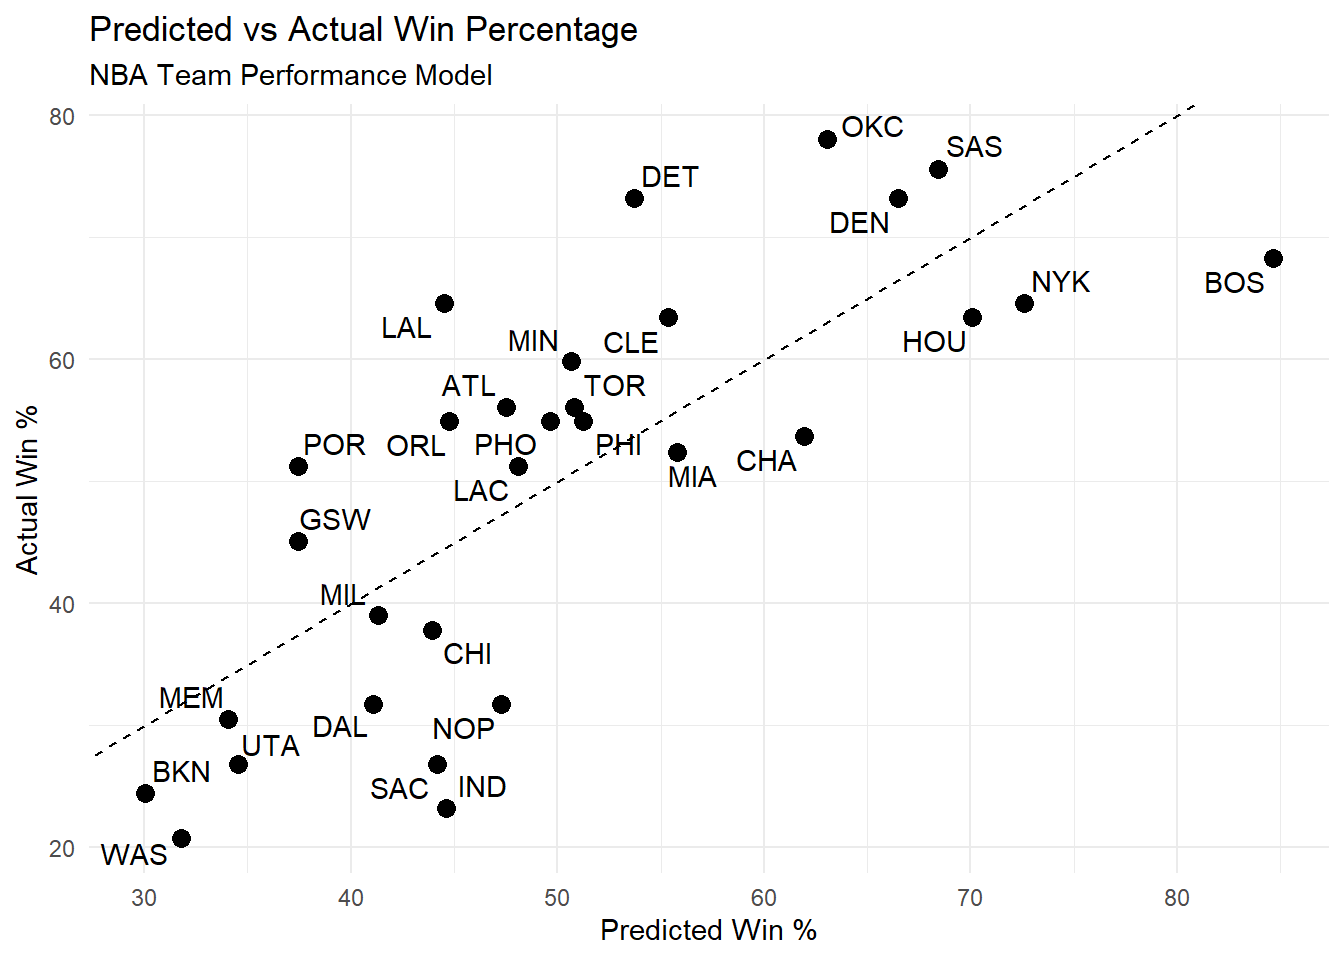
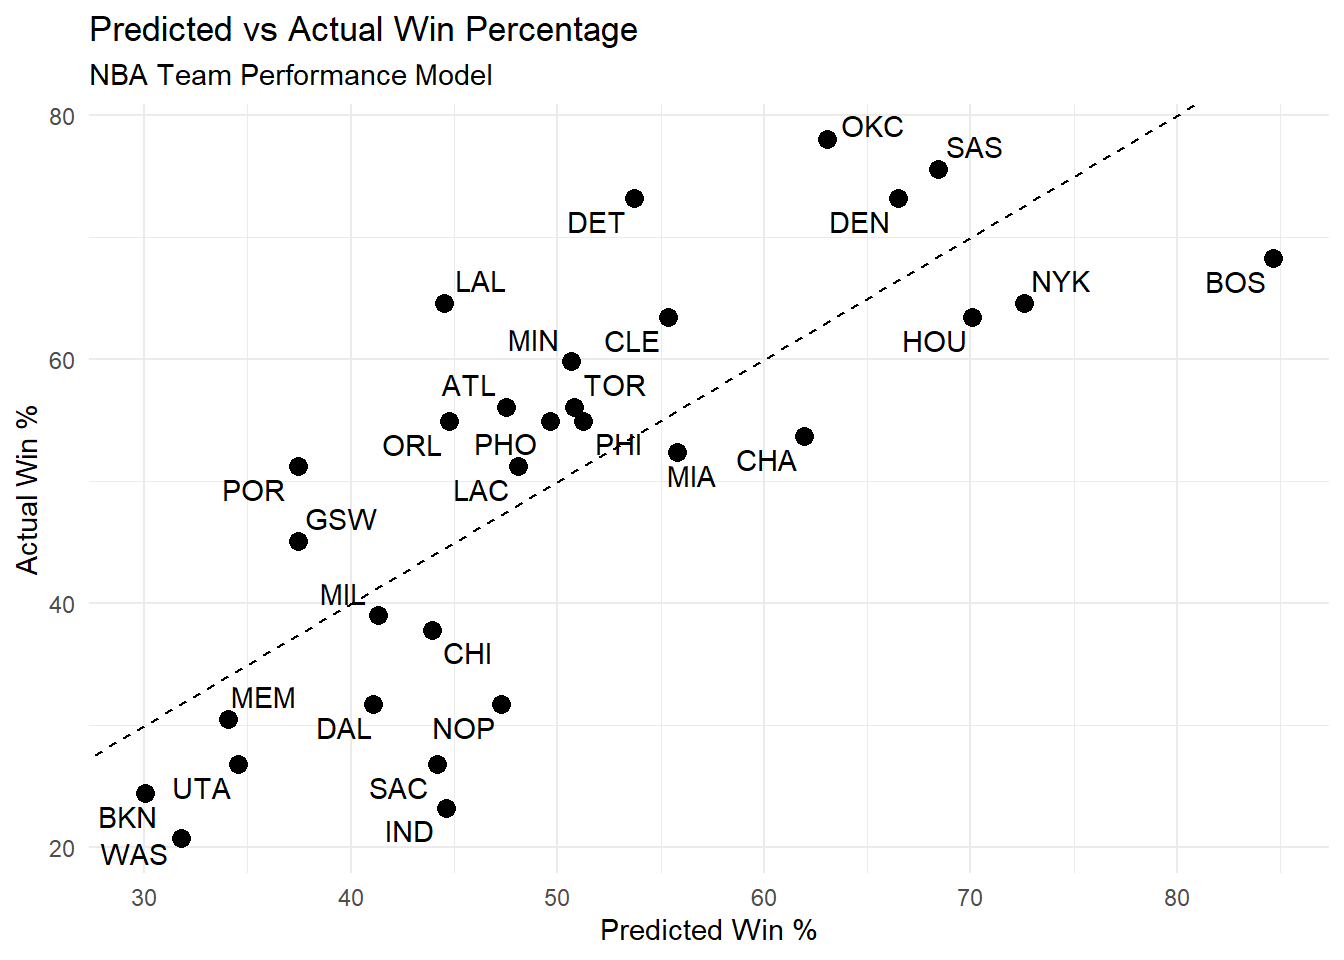
update homepage

diff --git a/docs/index.html b/docs/index.html
@@ -7,7 +7,7 @@
 <meta name="viewport" content="width=device-width, initial-scale=1.0, user-scalable=yes">
 
 
-<title>College Basketball Report</title>
+<title>Classroom to Court</title>
 <style>
 code{white-space: pre-wrap;}
 span.smallcaps{font-variant: small-caps;}
@@ -82,7 +82,7 @@ ul.task-list li input[type="checkbox"] {
       <div class="navbar-container container-fluid">
       <div class="navbar-brand-container mx-auto">
     <a class="navbar-brand" href="./index.html">
-    <span class="navbar-title">College Basketball Report</span>
+    <span class="navbar-title">Classroom to Court</span>
     </a>
   </div>
             <div id="quarto-search" class="" title="Search"></div>
@@ -99,14 +99,21 @@ ul.task-list li input[type="checkbox"] {
     <a class="nav-link" href="./about.html"> 
 <span class="menu-text">About</span></a>
   </li>  
-  <li class="nav-item">
-    <a class="nav-link" href="./nbastatsandwinpct.html"> 
-<span class="menu-text">NBA Stats &amp; Win %</span></a>
+  <li class="nav-item dropdown ">
+    <a class="nav-link dropdown-toggle" href="#" id="nav-menu-content" role="link" data-bs-toggle="dropdown" aria-expanded="false">
+ <span class="menu-text">Content</span>
+    </a>
+    <ul class="dropdown-menu" aria-labelledby="nav-menu-content">    
+        <li>
+    <a class="dropdown-item" href="./duke-blue-devils.html">
+ <span class="dropdown-text">NCAA — Duke Blue Devils</span></a>
   </li>  
-  <li class="nav-item">
-    <a class="nav-link" href="./duke-blue-devils.html"> 
-<span class="menu-text">Duke Blue Devils</span></a>
+        <li>
+    <a class="dropdown-item" href="./nbastatsandwinpct.html">
+ <span class="dropdown-text">NBA — Stats &amp; Win %</span></a>
   </li>  
+    </ul>
+  </li>
 </ul>
           </div> <!-- /navcollapse -->
             <div class="quarto-navbar-tools">
@@ -123,8 +130,10 @@ ul.task-list li input[type="checkbox"] {
     <h2 id="toc-title">On this page</h2>
    
   <ul>
-  <li><a href="#what-youll-find-here" id="toc-what-youll-find-here" class="nav-link active" data-scroll-target="#what-youll-find-here">What You’ll Find Here</a></li>
-  <li><a href="#about-this-project" id="toc-about-this-project" class="nav-link" data-scroll-target="#about-this-project">About This Project</a></li>
+  <li><a href="#welcome" id="toc-welcome" class="nav-link active" data-scroll-target="#welcome">Welcome</a></li>
+  <li><a href="#explore-the-content" id="toc-explore-the-content" class="nav-link" data-scroll-target="#explore-the-content">Explore the Content</a></li>
+  <li><a href="#connect" id="toc-connect" class="nav-link" data-scroll-target="#connect">Connect</a></li>
+  <li><a href="#latest-basketball-news" id="toc-latest-basketball-news" class="nav-link" data-scroll-target="#latest-basketball-news">Latest Basketball News</a></li>
   </ul>
 </nav>
     </div>
@@ -133,8 +142,8 @@ ul.task-list li input[type="checkbox"] {
 
 <header id="title-block-header" class="quarto-title-block default">
 <div class="quarto-title">
-<h1 class="title">College Basketball Report</h1>
-<p class="subtitle lead">Data-driven analysis of NCAA and NBA basketball</p>
+<h1 class="title">Classroom to Court</h1>
+<p class="subtitle lead">Where basketball knowledge meets data-driven insight</p>
 </div>
 
 
@@ -151,38 +160,83 @@ ul.task-list li input[type="checkbox"] {
 </header>
 
 
-<p>Welcome to the <strong>College Basketball Report</strong> — a stats-first blog covering NCAA and NBA basketball through the lens of data. Every post digs into the numbers behind the game: shooting trends, team efficiency, player breakdowns, and season-long narratives told through visualizations.</p>
-<section id="what-youll-find-here" class="level2">
-<h2 class="anchored" data-anchor-id="what-youll-find-here">What You’ll Find Here</h2>
-<table class="caption-top table">
-<colgroup>
-<col style="width: 50%">
-<col style="width: 50%">
-</colgroup>
-<thead>
-<tr class="header">
-<th>Section</th>
-<th>Description</th>
-</tr>
-</thead>
-<tbody>
-<tr class="odd">
-<td><strong>Duke Blue Devils</strong></td>
-<td>2025–26 season breakdown — shooting, scoring, and ball movement</td>
-</tr>
-<tr class="even">
-<td><strong>NBA Stats &amp; Win %</strong></td>
-<td>How team statistics translate to wins in the NBA</td>
-</tr>
-</tbody>
-</table>
+<section id="welcome" class="level2">
+<h2 class="anchored" data-anchor-id="welcome">Welcome</h2>
+<p>Basketball has always been more than a game — it’s a laboratory of strategy, athleticism, and storytelling. <strong>Classroom to Court</strong> bridges the gap between the academic study of sport and the hardwood itself, turning raw statistics into narratives that every fan can appreciate.</p>
+<p>Whether you follow the high-stakes drama of March Madness or track every NBA standings shift across an 82-game season, this site gives you something most coverage doesn’t: the numbers behind the moments. Every chart, every breakdown, and every post here is built from real game-by-game data — no filler, no recycled takes, just basketball and the statistics that explain it.</p>
+<hr>
 </section>
-<section id="about-this-project" class="level2">
-<h2 class="anchored" data-anchor-id="about-this-project">About This Project</h2>
-<p>All analysis is built in R using real game-by-game data from ESPN. Charts are created with <code>ggplot2</code> and the site is rendered with <a href="https://quarto.org">Quarto</a>. The data pipeline lives in a separate R project and feeds directly into these pages.</p>
-<blockquote class="blockquote">
-<p>Every number tells a story. This blog is about finding it.</p>
-</blockquote>
+<section id="explore-the-content" class="level2">
+<h2 class="anchored" data-anchor-id="explore-the-content">Explore the Content</h2>
+<div style="display: flex; gap: 1.5rem; flex-wrap: wrap; margin: 1.5rem 0;">
+
+  <div style="flex: 1; min-width: 240px; background: #f4f6fa; border-radius: 10px;
+              border-top: 4px solid #0a1628; padding: 1.4rem 1.6rem;
+              box-shadow: 0 2px 12px rgba(10,22,40,0.08);">
+    <h3 style="margin-top:0; color:#0a1628;" class="anchored">🏀 NCAA</h3>
+    <p style="color:#374151; font-size:0.95rem;">Dive into college basketball with game-by-game breakdowns, team efficiency reports, and player spotlights.</p>
+    <a href="duke-blue-devils.html" style="color:#1a3a6b; font-weight:600; text-decoration:none;">
+      Duke Blue Devils 2025–26 →
+    </a>
+  </div>
+
+  <div style="flex: 1; min-width: 240px; background: #f4f6fa; border-radius: 10px;
+              border-top: 4px solid #e8a020; padding: 1.4rem 1.6rem;
+              box-shadow: 0 2px 12px rgba(10,22,40,0.08);">
+    <h3 style="margin-top:0; color:#0a1628;" class="anchored">🏆 NBA</h3>
+    <p style="color:#374151; font-size:0.95rem;">Explore how team statistics translate into wins across the NBA, with visualizations that reveal what the box score misses.</p>
+    <a href="nbastatsandwinpct.html" style="color:#1a3a6b; font-weight:600; text-decoration:none;">
+      NBA Stats &amp; Win % →
+    </a>
+  </div>
+
+</div>
+<hr>
+</section>
+<section id="connect" class="level2">
+<h2 class="anchored" data-anchor-id="connect">Connect</h2>
+<p>Stay up to date and connect with the community:</p>
+<div style="display: flex; gap: 1rem; flex-wrap: wrap; margin: 1rem 0 1.5rem;">
+
+  <a href="https://www.linkedin.com" target="_blank" style="display:flex; align-items:center; gap:0.5rem; background:#0a66c2; color:#fff;
+            padding:0.6rem 1.2rem; border-radius:8px; text-decoration:none;
+            font-weight:600; font-size:0.92rem; box-shadow:0 2px 8px rgba(10,22,40,0.15);">
+    <svg xmlns="http://www.w3.org/2000/svg" width="18" height="18" viewbox="0 0 24 24" fill="white">
+      <path d="M20.447 20.452h-3.554v-5.569c0-1.328-.027-3.037-1.852-3.037-1.853 0-2.136
+               1.445-2.136 2.939v5.667H9.351V9h3.414v1.561h.046c.477-.9 1.637-1.85
+               3.37-1.85 3.601 0 4.267 2.37 4.267 5.455v6.286zM5.337 7.433a2.062
+               2.062 0 0 1-2.063-2.065 2.064 2.064 0 1 1 2.063 2.065zm1.782
+               13.019H3.555V9h3.564v11.452zM22.225 0H1.771C.792 0 0 .774 0
+               1.729v20.542C0 23.227.792 24 1.771 24h20.451C23.2 24 24 23.227
+               24 22.271V1.729C24 .774 23.2 0 22.222 0h.003z"></path>
+    </svg>
+    Follow on LinkedIn
+  </a>
+
+</div>
+<hr>
+</section>
+<section id="latest-basketball-news" class="level2">
+<h2 class="anchored" data-anchor-id="latest-basketball-news">Latest Basketball News</h2>
+<p>Stay current with what’s happening around the league:</p>
+<div style="border: 1px solid #e2e8f0; border-radius: 10px; overflow: hidden;
+            box-shadow: 0 2px 12px rgba(10,22,40,0.08); margin-top: 0.5rem;">
+  <div style="background: #0a1628; color: #fff; padding: 0.65rem 1.2rem;
+              font-weight: 600; font-size: 0.9rem; letter-spacing: 0.04em;
+              border-bottom: 3px solid #e8a020;">
+    📰 ESPN Basketball Feed
+  </div>
+  <div style="padding: 1.2rem; background: #f9fafb; color: #374151; font-size: 0.92rem;">
+    <p style="margin:0 0 0.8rem;">
+      Follow the latest NBA and NCAA basketball news, scores, and analysis directly from ESPN:
+    </p>
+    <ul style="margin: 0; padding-left: 1.4rem; line-height: 2;">
+      <li><a href="https://twitter.com/ESPN" target="_blank" style="color:#1a3a6b; font-weight:500;">@ESPN on X/Twitter</a> — Breaking scores and highlights</li>
+      <li><a href="https://twitter.com/ESPNNBA" target="_blank" style="color:#1a3a6b; font-weight:500;">@ESPNNBA on X/Twitter</a> — NBA-specific coverage</li>
+      <li><a href="https://twitter.com/ESPN_CBB" target="_blank" style="color:#1a3a6b; font-weight:500;">@ESPN_CBB on X/Twitter</a> — College basketball news</li>
+    </ul>
+  </div>
+</div>
 
 
 </section>
@@ -595,7 +649,7 @@ ul.task-list li input[type="checkbox"] {
       &nbsp;
     </div>   
     <div class="nav-footer-center">
-<p>© 2026 College Basketball Report · Built with <a href="https://quarto.org">Quarto</a></p>
+<p>© 2026 Classroom to Court · Built with <a href="https://quarto.org">Quarto</a></p>
 </div>
     <div class="nav-footer-right">
       &nbsp;

diff --git a/docs/duke-blue-devils.html b/docs/duke-blue-devils.html
@@ -6,9 +6,9 @@
 
 <meta name="viewport" content="width=device-width, initial-scale=1.0, user-scalable=yes">
 
-<meta name="dcterms.date" content="2026-06-24">
+<meta name="dcterms.date" content="2026-06-27">
 
-<title>Duke Blue Devils – College Basketball Report</title>
+<title>Duke Blue Devils – Classroom to Court</title>
 <style>
 code{white-space: pre-wrap;}
 span.smallcaps{font-variant: small-caps;}
@@ -118,7 +118,7 @@ pre > code.sourceCode > span > a:first-child::before { text-decoration: underlin
       <div class="navbar-container container-fluid">
       <div class="navbar-brand-container mx-auto">
     <a class="navbar-brand" href="./index.html">
-    <span class="navbar-title">College Basketball Report</span>
+    <span class="navbar-title">Classroom to Court</span>
     </a>
   </div>
             <div id="quarto-search" class="" title="Search"></div>
@@ -135,14 +135,21 @@ pre > code.sourceCode > span > a:first-child::before { text-decoration: underlin
     <a class="nav-link" href="./about.html"> 
 <span class="menu-text">About</span></a>
   </li>  
-  <li class="nav-item">
-    <a class="nav-link" href="./nbastatsandwinpct.html"> 
-<span class="menu-text">NBA Stats &amp; Win %</span></a>
+  <li class="nav-item dropdown ">
+    <a class="nav-link dropdown-toggle" href="#" id="nav-menu-content" role="link" data-bs-toggle="dropdown" aria-expanded="false">
+ <span class="menu-text">Content</span>
+    </a>
+    <ul class="dropdown-menu" aria-labelledby="nav-menu-content">    
+        <li>
+    <a class="dropdown-item" href="./duke-blue-devils.html">
+ <span class="dropdown-text">NCAA — Duke Blue Devils</span></a>
   </li>  
-  <li class="nav-item">
-    <a class="nav-link active" href="./duke-blue-devils.html" aria-current="page"> 
-<span class="menu-text">Duke Blue Devils</span></a>
+        <li>
+    <a class="dropdown-item" href="./nbastatsandwinpct.html">
+ <span class="dropdown-text">NBA — Stats &amp; Win %</span></a>
   </li>  
+    </ul>
+  </li>
 </ul>
           </div> <!-- /navcollapse -->
             <div class="quarto-navbar-tools">
@@ -184,7 +191,7 @@ pre > code.sourceCode > span > a:first-child::before { text-decoration: underlin
     <div>
     <div class="quarto-title-meta-heading">Published</div>
     <div class="quarto-title-meta-contents">
-      <p class="date">June 24, 2026</p>
+      <p class="date">June 27, 2026</p>
     </div>
   </div>
   
@@ -785,7 +792,7 @@ pre > code.sourceCode > span > a:first-child::before { text-decoration: underlin
       &nbsp;
     </div>   
     <div class="nav-footer-center">
-<p>© 2026 College Basketball Report · Built with <a href="https://quarto.org">Quarto</a></p>
+<p>© 2026 Classroom to Court · Built with <a href="https://quarto.org">Quarto</a></p>
 </div>
     <div class="nav-footer-right">
       &nbsp;

diff --git a/docs/about.html b/docs/about.html
@@ -7,7 +7,7 @@
 <meta name="viewport" content="width=device-width, initial-scale=1.0, user-scalable=yes">
 
 
-<title>About – College Basketball Report</title>
+<title>About – Classroom to Court</title>
 <style>
 code{white-space: pre-wrap;}
 span.smallcaps{font-variant: small-caps;}
@@ -82,7 +82,7 @@ ul.task-list li input[type="checkbox"] {
       <div class="navbar-container container-fluid">
       <div class="navbar-brand-container mx-auto">
     <a class="navbar-brand" href="./index.html">
-    <span class="navbar-title">College Basketball Report</span>
+    <span class="navbar-title">Classroom to Court</span>
     </a>
   </div>
             <div id="quarto-search" class="" title="Search"></div>
@@ -99,14 +99,21 @@ ul.task-list li input[type="checkbox"] {
     <a class="nav-link active" href="./about.html" aria-current="page"> 
 <span class="menu-text">About</span></a>
   </li>  
-  <li class="nav-item">
-    <a class="nav-link" href="./nbastatsandwinpct.html"> 
-<span class="menu-text">NBA Stats &amp; Win %</span></a>
+  <li class="nav-item dropdown ">
+    <a class="nav-link dropdown-toggle" href="#" id="nav-menu-content" role="link" data-bs-toggle="dropdown" aria-expanded="false">
+ <span class="menu-text">Content</span>
+    </a>
+    <ul class="dropdown-menu" aria-labelledby="nav-menu-content">    
+        <li>
+    <a class="dropdown-item" href="./duke-blue-devils.html">
+ <span class="dropdown-text">NCAA — Duke Blue Devils</span></a>
   </li>  
-  <li class="nav-item">
-    <a class="nav-link" href="./duke-blue-devils.html"> 
-<span class="menu-text">Duke Blue Devils</span></a>
+        <li>
+    <a class="dropdown-item" href="./nbastatsandwinpct.html">
+ <span class="dropdown-text">NBA — Stats &amp; Win %</span></a>
   </li>  
+    </ul>
+  </li>
 </ul>
           </div> <!-- /navcollapse -->
             <div class="quarto-navbar-tools">
@@ -616,7 +623,7 @@ ul.task-list li input[type="checkbox"] {
       &nbsp;
     </div>   
     <div class="nav-footer-center">
-<p>© 2026 College Basketball Report · Built with <a href="https://quarto.org">Quarto</a></p>
+<p>© 2026 Classroom to Court · Built with <a href="https://quarto.org">Quarto</a></p>
 </div>
     <div class="nav-footer-right">
       &nbsp;

diff --git a/docs/nbastatsandwinpct.html b/docs/nbastatsandwinpct.html
@@ -8,7 +8,7 @@
 
 <meta name="author" content="Pat Rankin">
 
-<title>NBA stats and winpct – College Basketball Report</title>
+<title>NBA stats and winpct – Classroom to Court</title>
 <style>
 code{white-space: pre-wrap;}
 span.smallcaps{font-variant: small-caps;}
@@ -118,7 +118,7 @@ pre > code.sourceCode > span > a:first-child::before { text-decoration: underlin
       <div class="navbar-container container-fluid">
       <div class="navbar-brand-container mx-auto">
     <a class="navbar-brand" href="./index.html">
-    <span class="navbar-title">College Basketball Report</span>
+    <span class="navbar-title">Classroom to Court</span>
     </a>
   </div>
             <div id="quarto-search" class="" title="Search"></div>
@@ -135,14 +135,21 @@ pre > code.sourceCode > span > a:first-child::before { text-decoration: underlin
     <a class="nav-link" href="./about.html"> 
 <span class="menu-text">About</span></a>
   </li>  
-  <li class="nav-item">
-    <a class="nav-link active" href="./nbastatsandwinpct.html" aria-current="page"> 
-<span class="menu-text">NBA Stats &amp; Win %</span></a>
+  <li class="nav-item dropdown ">
+    <a class="nav-link dropdown-toggle" href="#" id="nav-menu-content" role="link" data-bs-toggle="dropdown" aria-expanded="false">
+ <span class="menu-text">Content</span>
+    </a>
+    <ul class="dropdown-menu" aria-labelledby="nav-menu-content">    
+        <li>
+    <a class="dropdown-item" href="./duke-blue-devils.html">
+ <span class="dropdown-text">NCAA — Duke Blue Devils</span></a>
   </li>  
-  <li class="nav-item">
-    <a class="nav-link" href="./duke-blue-devils.html"> 
-<span class="menu-text">Duke Blue Devils</span></a>
+        <li>
+    <a class="dropdown-item" href="./nbastatsandwinpct.html">
+ <span class="dropdown-text">NBA — Stats &amp; Win %</span></a>
   </li>  
+    </ul>
+  </li>
 </ul>
           </div> <!-- /navcollapse -->
             <div class="quarto-navbar-tools">
@@ -963,7 +970,7 @@ ggplot(nba_data, aes(x = three_pt_pct, y = win_pct)) +
       &nbsp;
     </div>   
     <div class="nav-footer-center">
-<p>© 2026 College Basketball Report · Built with <a href="https://quarto.org">Quarto</a></p>
+<p>© 2026 Classroom to Court · Built with <a href="https://quarto.org">Quarto</a></p>
 </div>
     <div class="nav-footer-right">
       &nbsp;

diff --git a/docs/styles.css b/docs/styles.css
@@ -1,5 +1,5 @@
 /* ============================================================
-   College Basketball Report — Global Styles
+   Classroom to Court — Global Styles
    ============================================================ */
 
 /* ── Google Font ── */

diff --git a/styles.css b/styles.css
@@ -1,5 +1,5 @@
 /* ============================================================
-   College Basketball Report — Global Styles
+   Classroom to Court — Global Styles
    ============================================================ */
 
 /* ── Google Font ── */